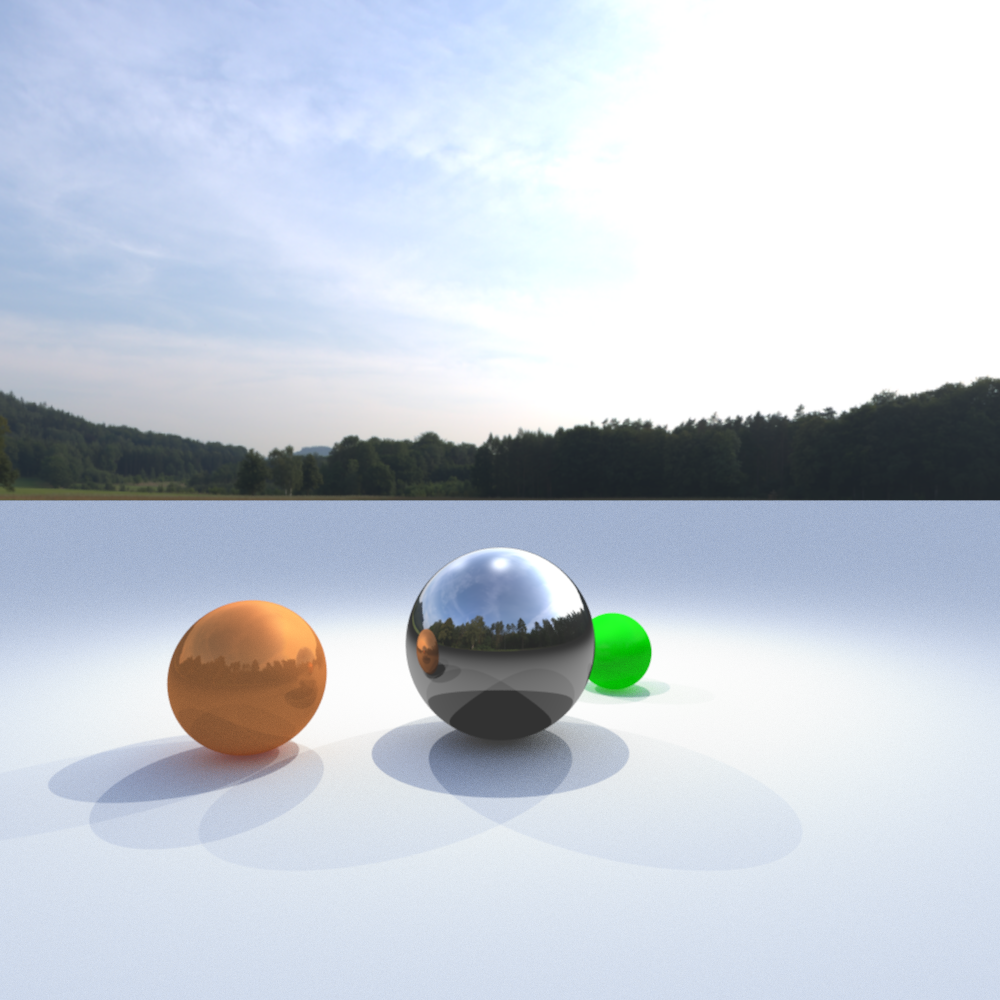
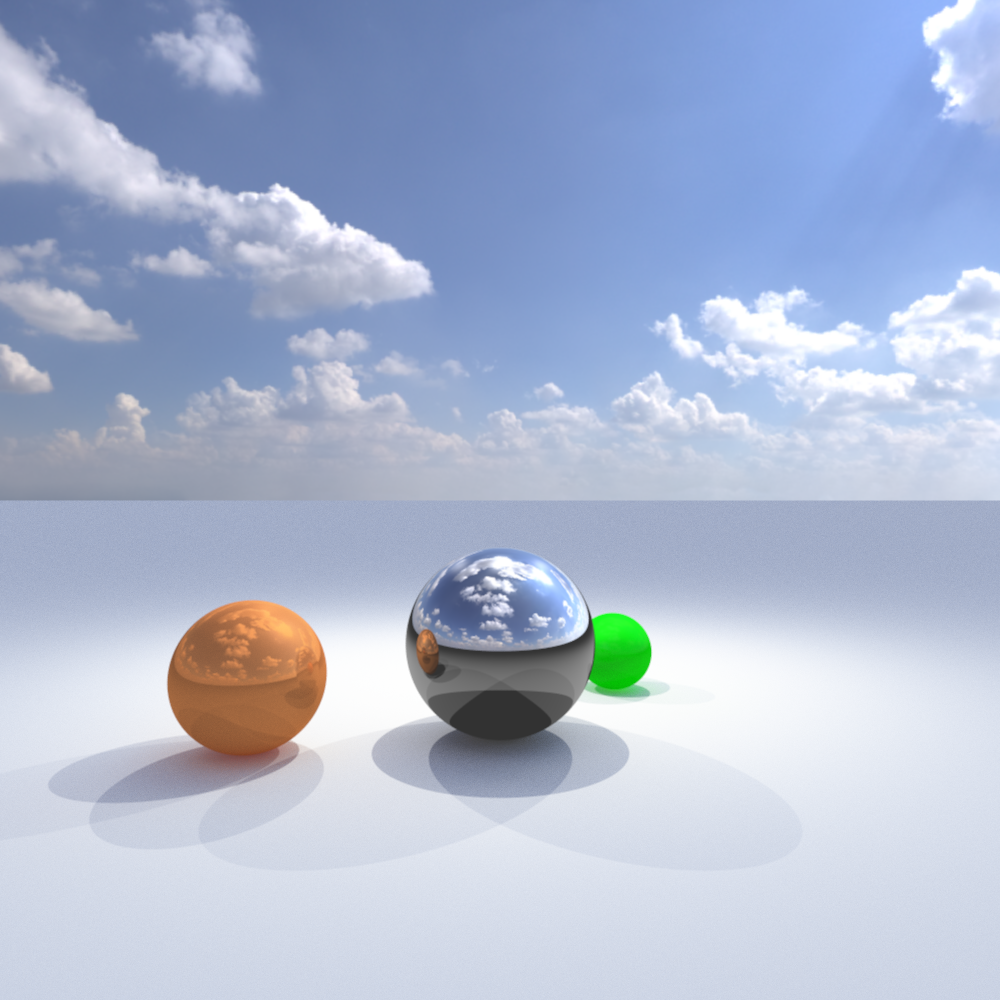
readme

diff --git a/src/tracer/Main.java b/src/tracer/Main.java
@@ -22,8 +22,8 @@ public class Main {
         Main main = new Main();
         String imageName, sceneName;
         if (args.length == 0) {
-            imageName = "box.png";
-            sceneName = "box.ser";
+            imageName = "default1.png";
+            sceneName = "3spheres.ser";
         } else {
             imageName = args[0];
             if (!imageName.toLowerCase().endsWith(".png")) {

diff --git a/src/tracer/Properties.java b/src/tracer/Properties.java
@@ -18,6 +18,6 @@ public class Properties {
 
     static public final RGB AMBIENT = new RGB(0.1, 0.1, 0.1);
 
-    static public final String SKYBOX = "src/res/lilienstein_4k.hdr";
+    static public final String SKYBOX = "src/res/kloofendal_48d_partly_cloudy_puresky_4k.hdr";
 
 }

diff --git a/README.md b/README.md
@@ -1,0 +1,3 @@
+#Ray Tracer in Java
+
+![Alt Text](images/default1.png)
